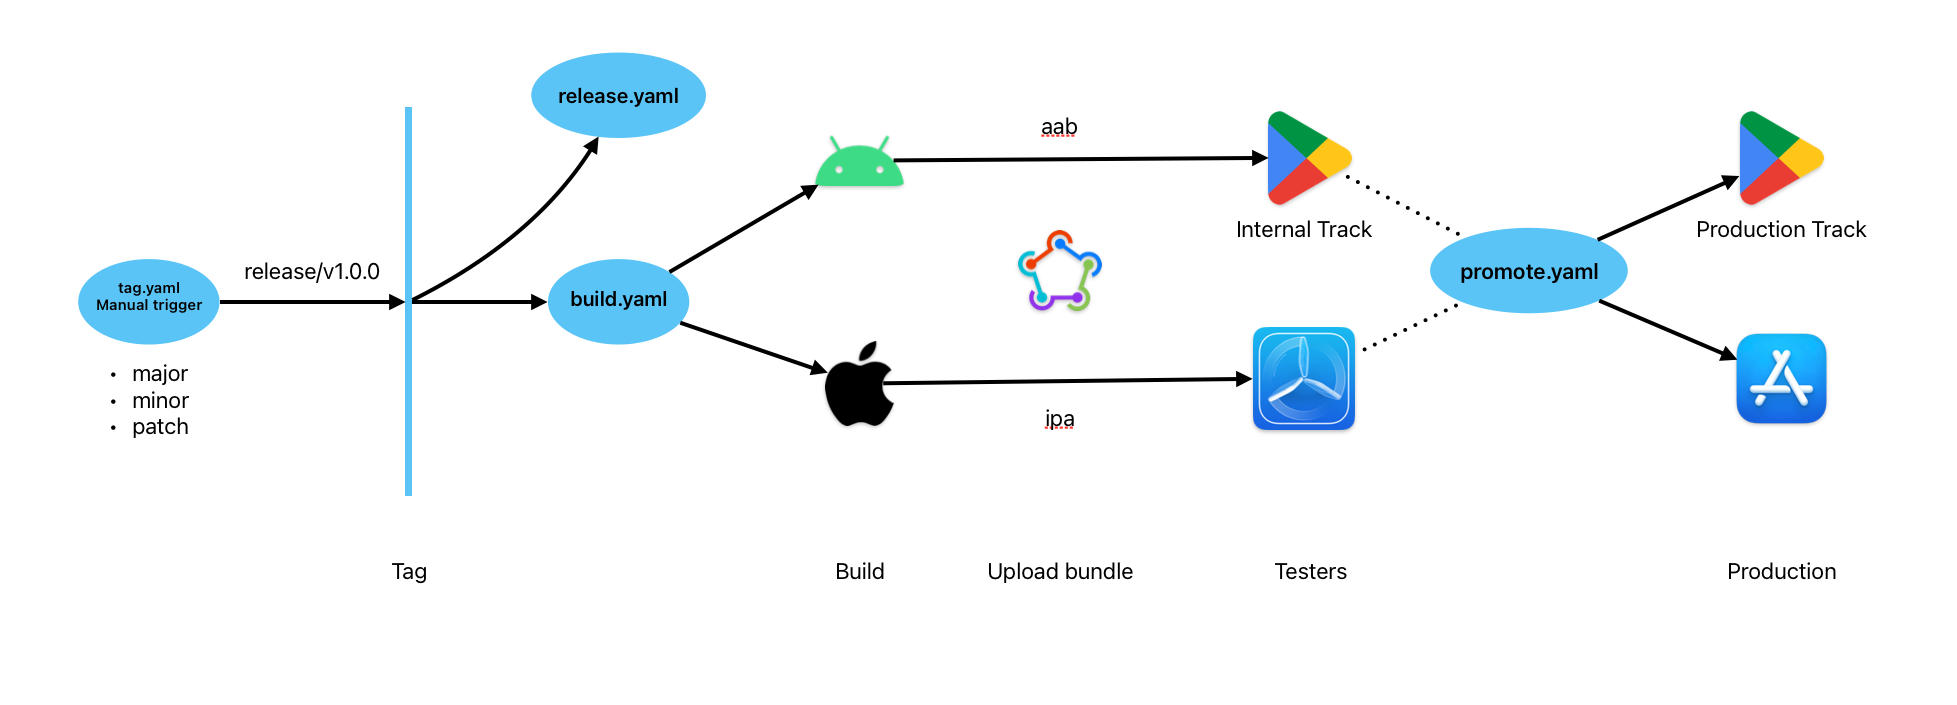
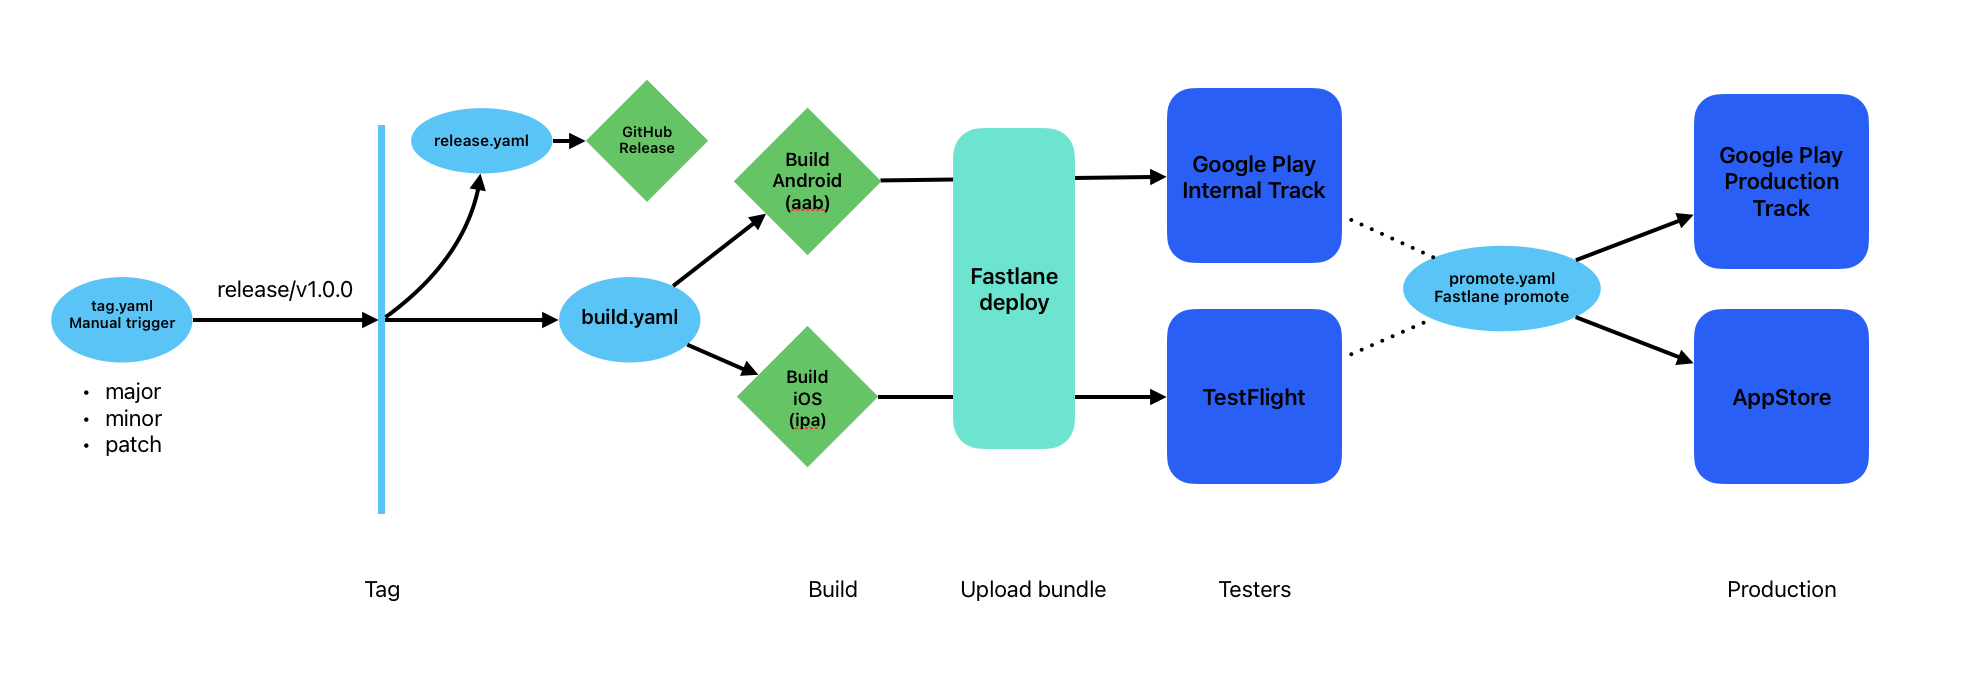
changed images to respect licenses

diff --git a/README.md b/README.md
@@ -1,6 +1,6 @@
 # Flutter CI/CD with Fastlane and GitHub Actions: The Basics (Part 1)
 
-![Flutter CI/CD](docs/flutter_cicd.png)
+![Flutter CI/CD](docs/flutter_cicd.jpg)
 # Introduction
 
 If you're looking to streamline your Flutter app's deployment to the AppStore and PlayStore, you've come to the right place. We'll be using Fastlane and GitHub Actions to automate our workflow. By the end of this tutorial, you'll have an automated pipeline that builds and deploys your Flutter app to your preferred app stores. In this guide we will skip all the setup and configuration of Fastlane and GitHub Actions, and will focus on the Flutter and workflow specific parts of the setup.
@@ -249,7 +249,7 @@ Dario is a passionate and innovative Senior Flutter Developer at [NTT Data](http
 
 # Flutter CI/CD with Fastlane and GitHub Actions: Releases (Part 2)
 
-![Flutter CI/CD](docs/flutter_cicd.png)
+![Flutter CI/CD](docs/flutter_cicd.jpg)
 
 ## Introduction
 
